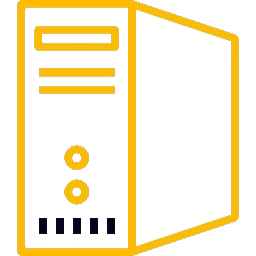
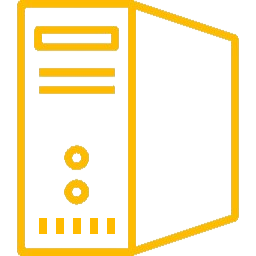
New images

Changed region(s): [[0.2812, 0.8438, 0.4688, 0.9375], [0.125, 0.8438, 0.1875, 0.9375], [0.2188, 0.8438, 0.25, 0.9375]]

diff --git a/style.css b/style.css
@@ -363,7 +363,7 @@ nav {
   align-items: center;
   justify-content: center;
   margin-top: 40px;
-  gap: 5aapx;
+  gap: 5px;
 }
 
 .numberspage{